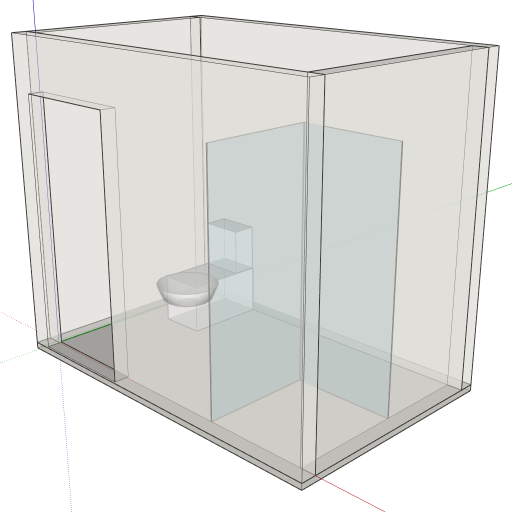
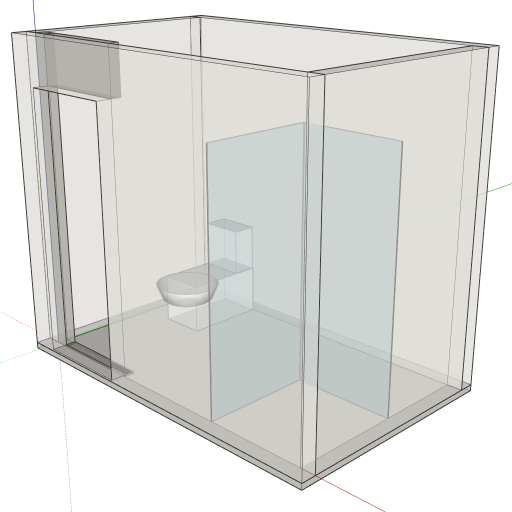
Correct door and projecting-structure placement in both bathrooms
282x176: the middle notch on the front wall is a building column projecting
2.5-3.2 cm into the room, not a door. Door moved to the right wall (76x215),
after the toilet.

274x165: the 8.5 cm mark is a projection wrapping the door opening. Door is
78.8x214 within the 90.1 cm segment, leaving 11.3 cm of wall; the projection
is built as jamb + header + threshold so it does not intrude on the opening.

Claude-Session: https://claude.ai/code/session_01NscxDVRSkvTeu8z62EtHyg

Changed region(s): [[0.0625, 0.0625, 0.25, 0.75]]

diff --git a/plantas-banheiro/README.md b/plantas-banheiro/README.md
@@ -10,19 +10,45 @@ Gerados pelo conector Trimble SketchUp, em geometria nativa. Baixe pelo link:
 
 | Ambiente | Arquivo |
 |---|---|
-| Banheiro 282 × 176 × 253 | [banheiro_282x176.skp](https://api.sketchup.com/mcp/v1/sketchup/dl/318c21b5-abd3-4b98-8601-f76c749bd874/003-save/banheiro_282x176.skp?t=oAUdOgsV6I7HIPLob4se1Q) |
-| Banheiro 274 × 165 × 253,8 | [banheiro_274x165.skp](https://api.sketchup.com/mcp/v1/sketchup/dl/318c21b5-abd3-4b98-8601-f76c749bd874/006-save/banheiro_274x165.skp?t=Nkhx8yLz1wkYo_UjnUpskQ) |
+| Banheiro 282 × 176 × 253 | [banheiro_282x176_v2.skp](https://api.sketchup.com/mcp/v1/sketchup/dl/318c21b5-abd3-4b98-8601-f76c749bd874/009-save/banheiro_282x176_v2.skp?t=D-24WIWGn9urWz_8r3nyFw) |
+| Banheiro 274 × 165 × 253,8 | [banheiro_274x165_v2.skp](https://api.sketchup.com/mcp/v1/sketchup/dl/318c21b5-abd3-4b98-8601-f76c749bd874/012-save/banheiro_274x165_v2.skp?t=VNsleutEKDa25Znz5Noxtw) |
 
 Os links são temporários — baixe e guarde os arquivos. Ao abrir, troque a unidade
 para centímetros em `Janela → Informações do modelo → Unidades`; o SketchUp
 guarda tudo em polegadas internamente, mas as medidas reais estão corretas.
 
-Cada modelo é um grupo (`Banheiro_...`) com as peças nomeadas dentro:
-`Piso`, `Parede_Frente` (com o vão da porta recortado), `Parede_Fundo`,
-`Parede_Esquerda`, `Parede_Direita`, `Vaso_Bacia`, `Vaso_Caixa_Acoplada`,
-`Box_Vidro_Lateral`, `Box_Vidro_Frontal`, `Bancada`/`Cuba` ou `Lavatorio`.
-Todas as peças passam na validação de sólido do SketchUp, então funcionam com as
-Ferramentas de Sólidos e com exportação para CAD.
+Cada modelo é um grupo (`Banheiro_...`) com as peças nomeadas dentro: `Piso`,
+as quatro paredes, `Vaso_Bacia`, `Vaso_Caixa_Acoplada`, `Box_Vidro_Lateral`,
+`Box_Vidro_Frontal`, mais `Coluna_Predio` + `Bancada` + `Cuba` (banheiro 1) ou
+`Lavatorio` (banheiro 2). Todas as peças passam na validação de sólido do
+SketchUp, então funcionam com as Ferramentas de Sólidos e com exportação
+para CAD.
+
+### Banheiro 282 × 176 — correção do Eduardo (04/08)
+
+A primeira versão colocava a porta no meio da parede da frente. Está errado:
+ali fica uma **coluna do prédio**, que se projeta para dentro do ambiente
+2,5 cm na borda esquerda e 3,2 cm na direita (é o que as marcações amarelas do
+desenho significam), ocupando os 76,7 cm entre 96,8 e 173,5 a partir da parede
+esquerda. A parede da frente é inteira.
+
+A porta fica na **parede direita** (oposta à do box), logo depois do vaso, com
+**76 × 215 cm**: vão de y = 89 a y = 165 a partir da parede da frente, deixando
+11 cm de parede até o fundo e a bancada nos 89 cm antes dela.
+
+### Banheiro 274 × 165 — correção do Eduardo (04/08)
+
+A marcação amarela **8,5** também é um recuo projetado para dentro do ambiente,
+e na área da porta ele envolve o vão. A porta tem **78,8 × 214 cm** e fica
+dentro do segmento de 90,1 da parede da frente, sobrando **11,3 cm** de parede.
+Modelado como `Recuo_Lateral` (os 11,3 cm cheios, do piso ao teto),
+`Recuo_Verga` (acima da porta) e `Recuo_Soleira` — três peças em vez de uma só,
+para o recuo não invadir o vão. Quem passa pela porta atravessa
+12,7 + 8,5 = 21,2 cm de espessura.
+
+O que ainda não sei: até onde o recuo de 8,5 se estende para a direita. Modelei
+só os 90,1 cm do segmento da porta. Se ele corre por mais trecho da parede da
+frente, é só alongar a peça.
 
 ## Formatos alternativos (mesma geometria, gerados localmente)
 
@@ -39,22 +65,23 @@ conferência do traçado.
 
 ## O que é exato e o que é interpretação
 
-**Exato (direto das cotas):** dimensões internas e pé-direito dos dois ambientes,
-vão da porta (76,7 cm na planta 1; 90,1 cm na planta 2), box de banho (87 × 93 e
-85,4 × 92), eixo do vaso (160 cm da parede direita na planta 1; 45,5 cm da
+**Exato (das cotas e das correções do Eduardo):** dimensões internas e
+pé-direito dos dois ambientes, porta do banheiro 1 (76 × 215, parede direita),
+coluna do prédio (76,7 de largura, projeção 2,5 → 3,2 cm), porta do banheiro 2
+(78,8 × 214, com recuo de 8,5 e sobra de 11,3 nos 90,1), box de banho (87 × 93
+e 85,4 × 92), eixo do vaso (160 cm da parede direita na planta 1; 45,5 cm da
 esquerda na planta 2) e bancada 48 × 89 da planta 1.
 
-**Assumido:** espessura de parede **12,7 cm** (não estava cotada), porta com
-210 cm de altura e soleira de 1,5 cm, vidro do box com 200 cm, bancada a 75 cm e
-lavatório a 85 cm do piso.
+**Assumido:** espessura de parede **12,7 cm** (não estava cotada), soleira de
+1,5 cm, vidro do box com 200 cm, bancada a 75 cm e lavatório a 85 cm do piso.
 
 **Interpretação que vale conferir:**
 
-- **Planta 2 — posição da porta.** As cotas da base (90,1 / 100 / 90) não dizem
-  qual segmento é a porta. Adotei o **segmento da esquerda (90,1)**, porque o do
-  meio é onde está desenhado o lavatório e o da direita (90) bate com a largura
-  do box (85,4). Se a porta for na verdade o vão de 100 cm no meio, é uma linha
-  para corrigir.
+- **Planta 2 — a sobra de 11,3 cm** foi colocada à esquerda da porta (junto ao
+  canto). Se a porta é que encosta no canto e a sobra fica do outro lado, é só
+  inverter.
+- **Planta 2 — extensão do recuo de 8,5.** Modelado só nos 90,1 cm do segmento
+  da porta; se ele continua pela parede da frente, precisa alongar.
 - **Somatório das cotas da base.** Na planta 1 dá 277 contra 282 de largura
   total; na planta 2 dá 280,1 contra 274. Sobra/falta de 5–6 cm nos dois casos,
   provavelmente por causa de onde cada cota foi medida (face interna × externa).
@@ -62,10 +89,8 @@ lavatório a 85 cm do piso.
   e o desenho mostra um recorte na parede direita. Modelei como retângulo de
   **165 cm**; se houver mesmo um degrau na parede, precisa entrar.
 - **Planta 1 — bancada.** As cotas 48 e 89 foram lidas como profundidade e
-  comprimento da bancada encostada na parede direita. No desenho a cuba aparece
-  menor e mais ao centro do que isso.
-- **Marcações amarelas** (2,5 / 3,2 na planta 1; 8,5 na planta 2) não foram
-  modeladas — não deu para identificar o que são (desnível? espessura?).
+  comprimento da bancada encostada na parede direita, ocupando o trecho antes
+  da porta. No desenho a cuba aparece menor e mais ao centro do que isso.
 
 O box de banho foi modelado com os dois vidros fechados (porta de correr
 fechada), que é como o desenho mostra.
